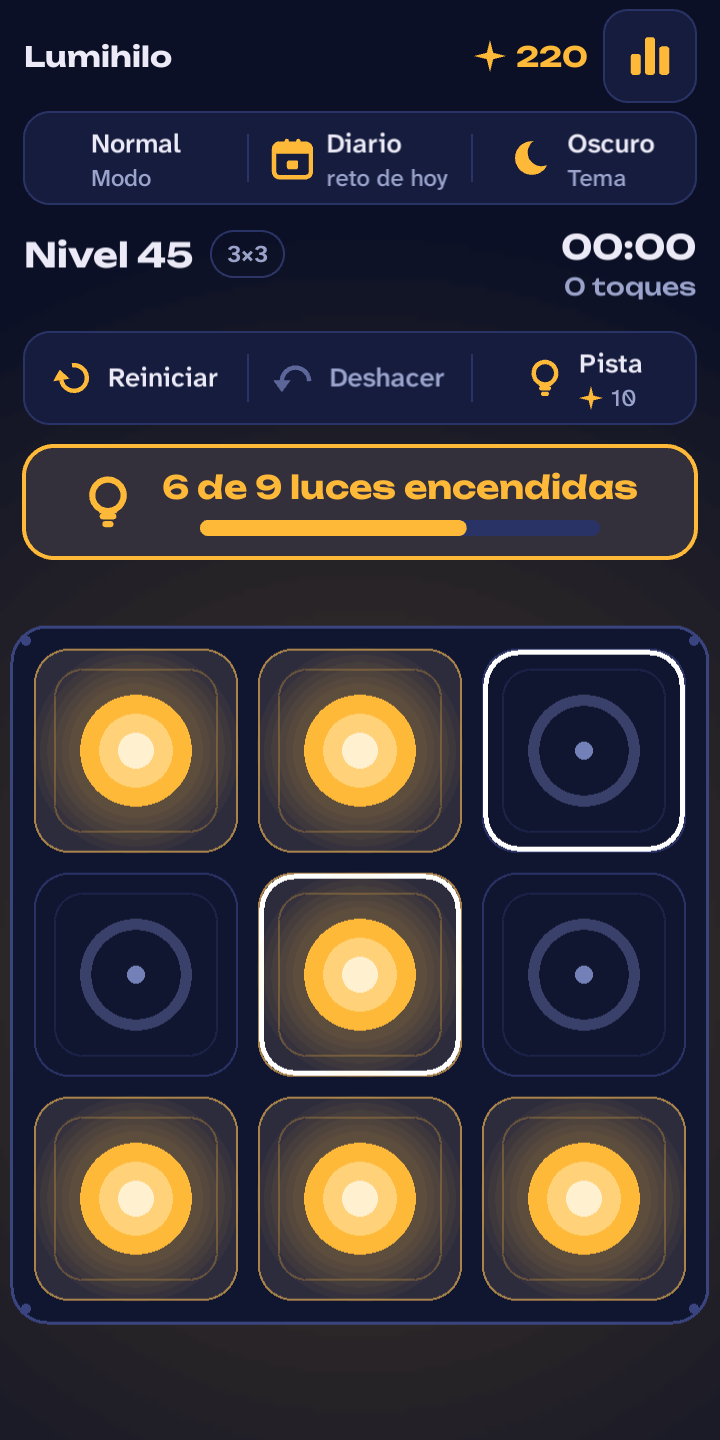
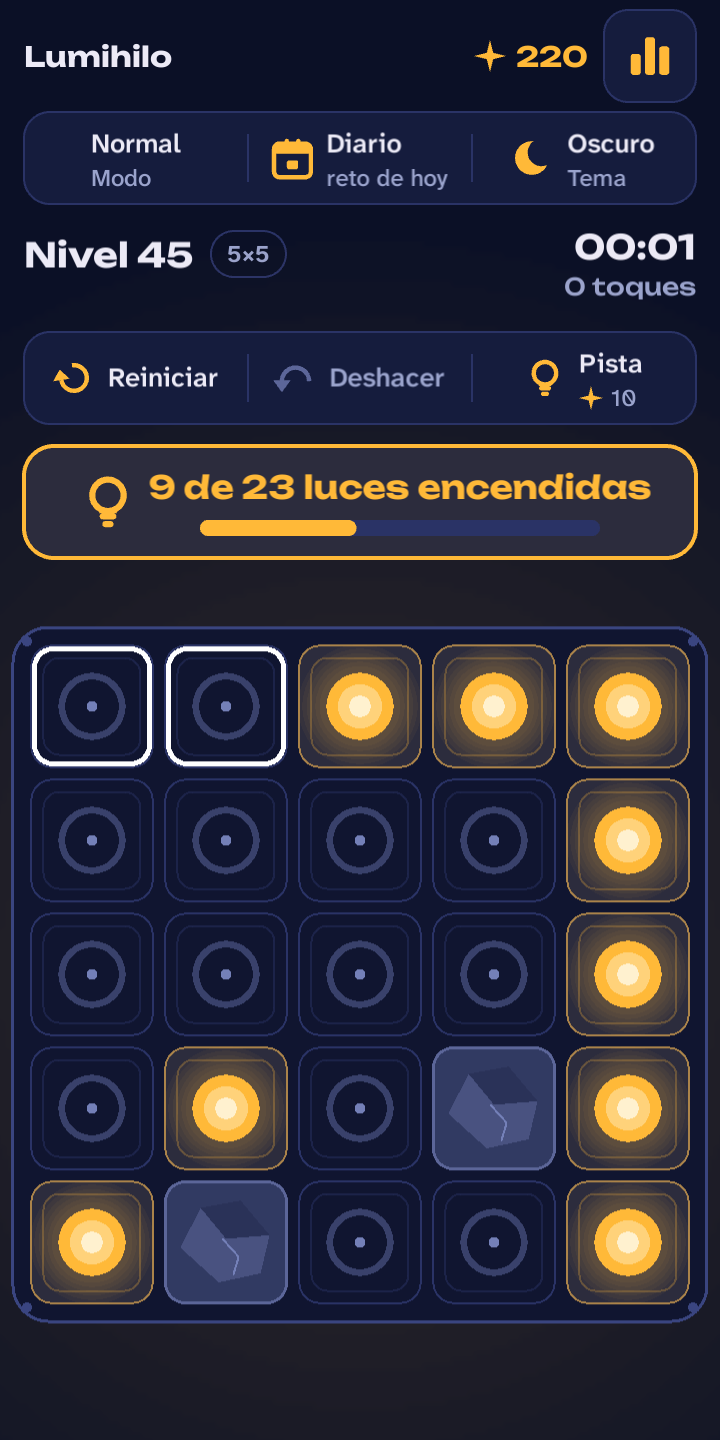
docs: capturas de la tienda con Luces 5x5 con piedras y Aurora

diff --git a/docs/store/ficha.md b/docs/store/ficha.md
@@ -6,7 +6,7 @@ Recursos listos para subir a Play Console (Presencia en Play Store → Ficha de 
 |---|---|---|
 | Icono | `icon-512.png` | 512×512 |
 | Gráfico de funciones | `grafico-de-funciones-1024x500.png` | 1024×500 |
-| Capturas de teléfono | `capturas/01…09-*.png` | 1080×2160 (relación 2:1) |
+| Capturas de teléfono | `capturas/01…10-*.png` | 1080×2160 (relación 2:1) |
 
 Las capturas se generan del juego real con `npm run build && node e2e/store.mjs` (necesita Chromium de Playwright, ver `docs/08`). El gráfico se compone con `grafico/feature.html`; si cambia el diseño del juego, hay que regenerar ambos.
 
